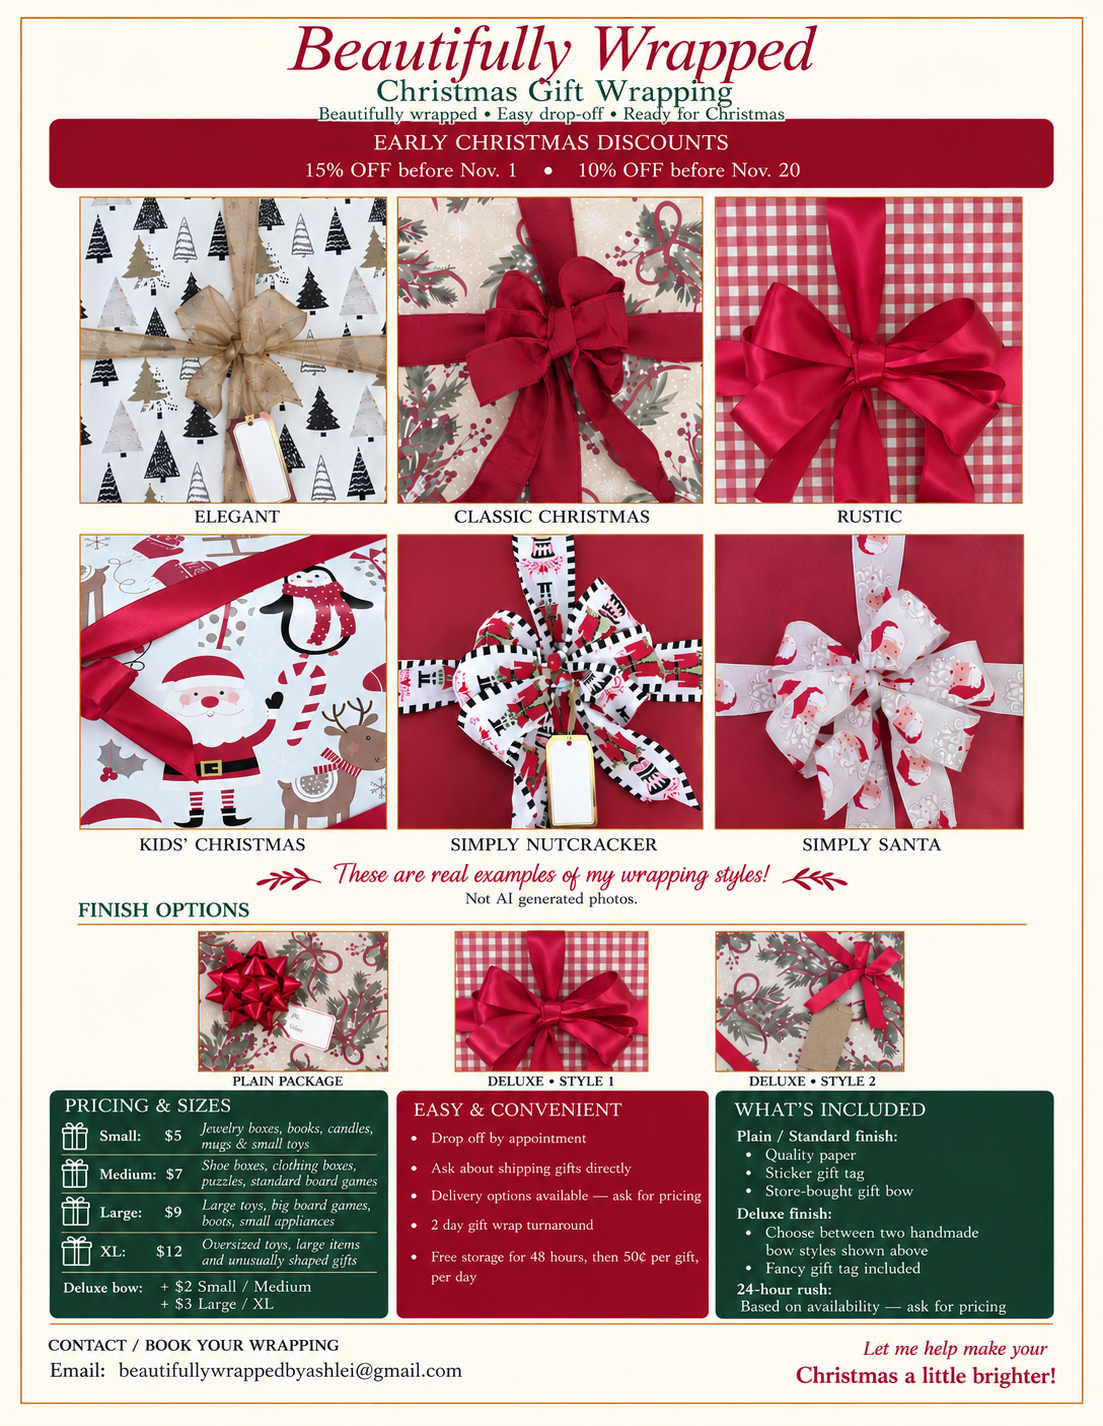
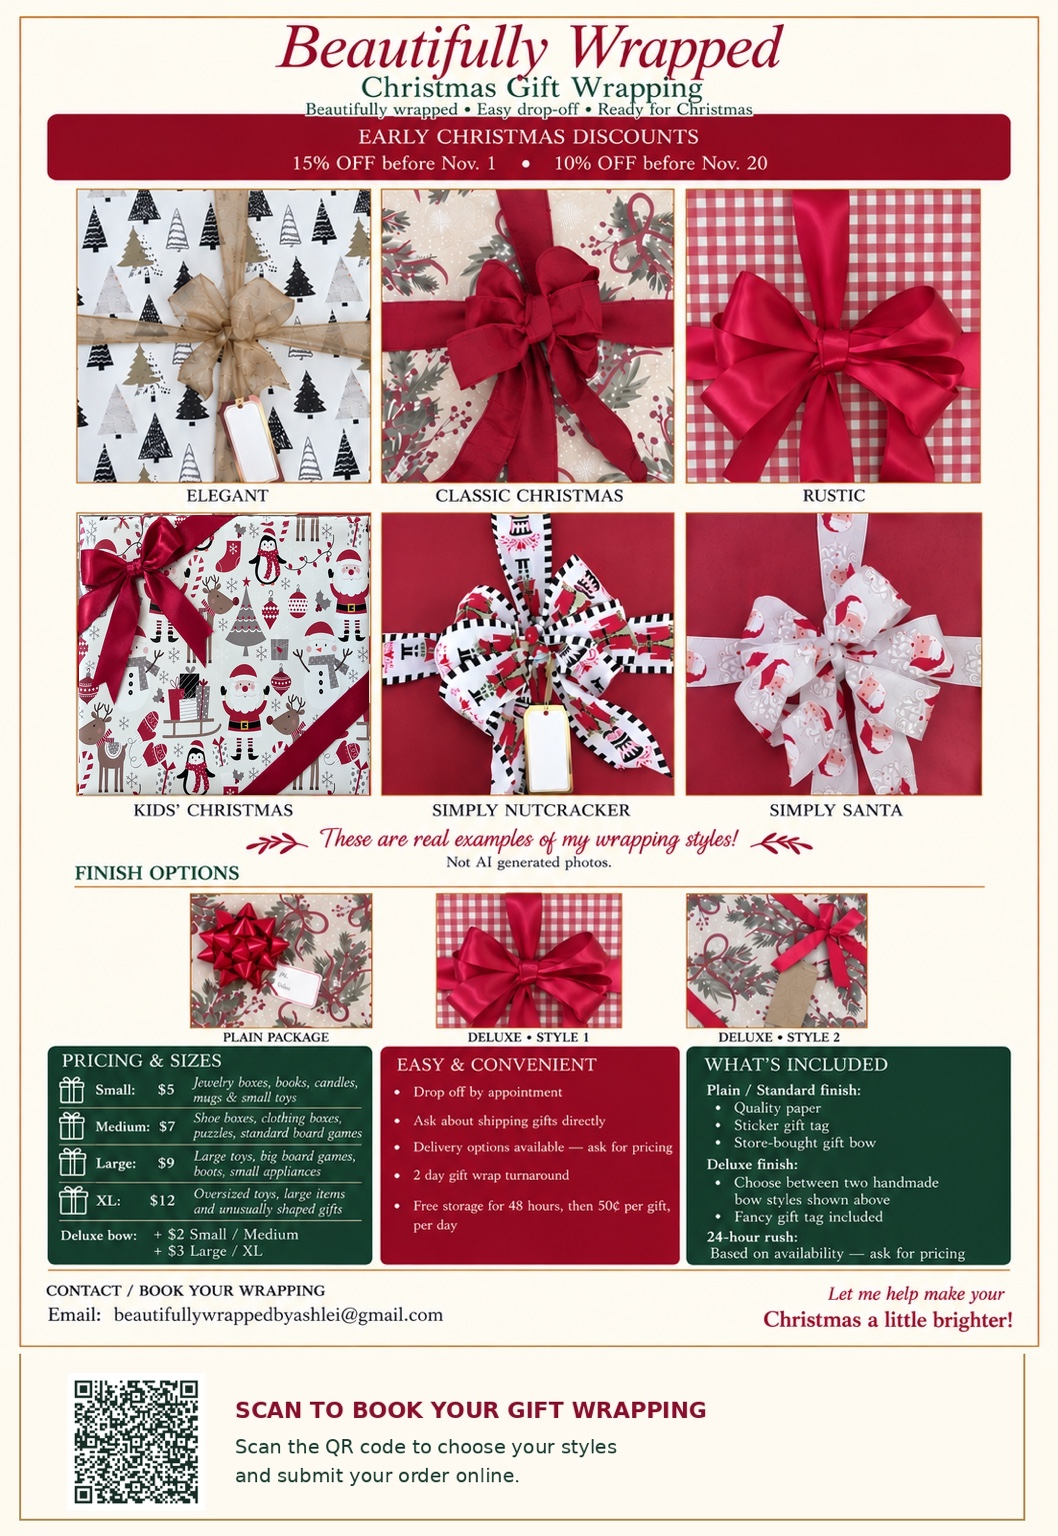
Add files via upload

diff --git a/index.html b/index.html
@@ -68,7 +68,7 @@
 <article class="showcase-card finish-card"><img src="deluxe2-no-carpet.webp" alt="Real gift with Deluxe · Style 2 finish" loading="lazy"><h3>Deluxe · Style 2</h3><p>Handmade bow style 2 and a fancy gift tag.</p></article></div></div>
   <div class="guide-block"><h2>Pricing &amp; Sizes</h2><div class="price-list"><div><span>Small</span><strong>$5</strong></div><div><span>Medium</span><strong>$7</strong></div><div><span>Large</span><strong>$9</strong></div><div><span>XL</span><strong>$12</strong></div></div><p class="guide-sub">Wrapping is priced by the size of the package or box being wrapped. Unboxed gifts requiring a box have a $1 additional charge. Irregular shapes are priced as XL.</p><p class="deluxe-note"><b>Deluxe finish:</b> Add $2 for Small / Medium or $3 for Large / XL.</p></div>
   <div class="guide-block guide-info"><h2>Easy &amp; Convenient</h2><ul><li>Drop off by appointment</li><li>Ask about shipping gifts directly to me</li><li>Local delivery may be available — ask for pricing</li><li>Standard two-day wrapping turnaround after receipt (and photo approval for direct shipments)</li><li>Two days of free storage after wrapping, then $0.50 per gift per day</li><li>Final invoice sent after wrapping; payment required before pickup or delivery</li></ul></div>
-  <div class="guide-block"><h2>Questions?</h2><p>Email <a href="mailto:beautifullywrappedbyashlei@gmail.com">beautifullywrappedbyashlei@gmail.com</a></p><p class="guide-sub">Want to see the original printable flyer? <a href="christmas-gift-guide.png" target="_blank" rel="noopener">Open the full gift guide</a>.</p></div>
+  <div class="guide-block"><h2>Questions?</h2><p>Email <a href="mailto:beautifullywrappedbyashlei@gmail.com">beautifullywrappedbyashlei@gmail.com</a></p><p class="guide-sub">Want to see the updated printable flyer? <a href="christmas-gift-guide.png" target="_blank" rel="noopener">Open the full gift guide</a>.</p></div>
   <div class="order-jump"><a href="#orderForm">Ready to order? Start here ↓</a></div>
 </section>
 <form id="orderForm">
